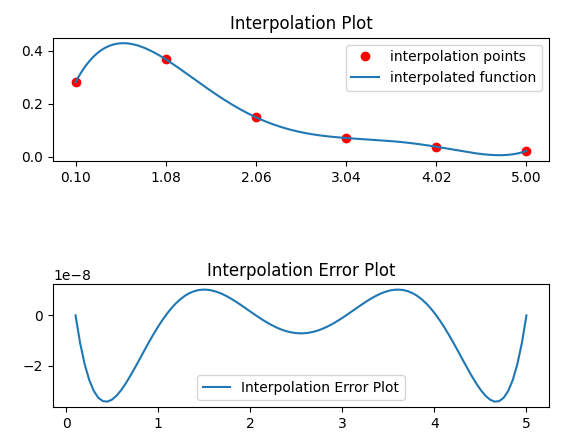
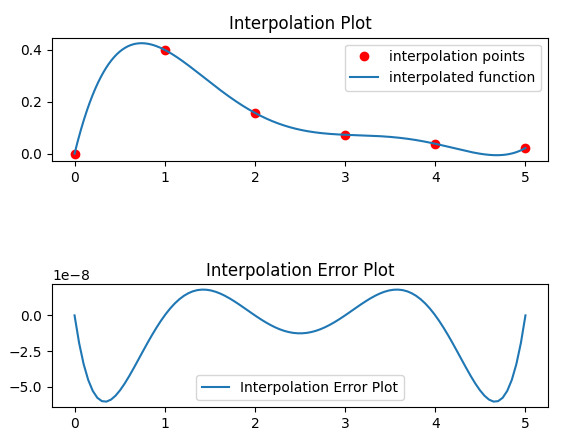
2021-04-02

diff --git a/hw5_jn2294/hw5.py b/hw5_jn2294/hw5.py
@@ -19,15 +19,21 @@ from numpy import array, zeros, diag, diagflat, dot
 
 class HW5:
     def __init__(self,mu=0,sigma=1,func=None):
+        self.x = sympy.symbols("x")
         self.mu = mu
         self.sigma= sigma
         if func is None:
             self.func = lambda x, mu=0, sigma=1: (1 / (np.sqrt(2 * np.pi) * sigma)) * (
                     np.exp((-1 / 2) * np.power((np.log(x) - mu)/sigma,2)) / x)
+
+            # Used for computing limit
+            self.func_sympy = (1 / (sympy.sqrt(2 * sympy.pi) * self.sigma)) * (
+                    sympy.exp((-1 / 2) * ((sympy.log(self.x) - self.mu)/self.sigma)**2) / self.x)
+
         else:
             self.func = func
-        self.x_points = np.linspace(0.1,5,100)
-        self.y_points = self.func(self.x_points,self.mu,self.sigma)
+        # self.x_points = np.linspace(0,5,100)
+        # self.y_points = self.func(self.x_points,self.mu,self.sigma)
 
 
     @staticmethod
@@ -62,13 +68,14 @@ class HW5:
             y = pair[1]
             x = pair[0]
             if option == "exponential":
-                b_res.append(math.log(y) - math.log(x))
+                if x == 0.0 and y == 0.0:
+                    b_res.append(0)
+                else:
+                    b_res.append(math.log(y) - math.log(x))
             elif option == "polynomial":
                 b_res.append(y)
 
         return np.array(b_res)
-
-
 
 
     # Helper function for Chebyshev Interpolation point calculation
@@ -109,6 +116,7 @@ class HW5:
                 f += coeff * (x ** order)
 
             return x, f, str(f)
+
 
     def plotInterpolation(self, data_point, func, x0):
         x_list = [pair[0] for pair in data_point]
@@ -178,7 +186,7 @@ class HW5:
 
 
     # Problem's main functions
-    def problem1(self,start=0.1,end=5,num_points=6,data_points=None):
+    def problem1(self,start=0,end=5,num_points=6,data_points=None):
 
         # 1. Determine interpolation points
 
@@ -188,7 +196,13 @@ class HW5:
             y_inter = self.func(x_inter, self.mu, self.sigma)
         else:
             x_inter = np.linspace(start, end, num_points)
-            y_inter = self.func(x_inter, self.mu, self.sigma)
+            if start == 0:
+                y_inter = list(self.func(x_inter[1:], self.mu, self.sigma))
+                y_inter.insert(sympy.limit(self.func_sympy,self.x,0),0)
+                y_inter = np.array(y_inter)
+            else:
+                y_inter = self.func(x_inter[1:], self.mu, self.sigma)
+
             data_point = [*zip(list(x_inter),list(y_inter))]
 
         # 1.1 Since we have 6 points, the 5 order polynomial is what we need for unique solution
@@ -198,7 +212,6 @@ class HW5:
         # 1.2 Construct linear system
         A = self.construct_A(data_point,order)
         b = self.construct_b(data_point)
-
 
         # 2. Solution for co-efficient for polynomial interpolation
         coeff = np.linalg.solve(A,b)
@@ -254,7 +267,7 @@ class HW5:
         plt.show()
 
 
-    def problem2(self,start=0.1,end=5,num_points=6):
+    def problem2(self,start=0,end=5,num_points=6):
         x_cheb = self.chebyshevInterpolation(start,end,num_points)
         x_cheb_vec = np.array(x_cheb)
 
@@ -266,10 +279,16 @@ class HW5:
         self.problem1(x_cheb[0],x_cheb[-1],len(x_cheb),data_points)
 
 
-    def problem3(self,start=0.1,end=5,num_points=6):
+    def problem3(self,start=0,end=5,num_points=6):
         x_inter = np.linspace(start, end, num_points)
-        y_inter = self.func(x_inter, self.mu, self.sigma)
-        data_points = [*zip(list(x_inter), list(y_inter))]
+        if start == 0:
+            y_inter = list(self.func(x_inter[1:], self.mu, self.sigma))
+            y_inter.insert(sympy.limit(self.func_sympy,self.x,0),0)
+            y_inter = np.array(y_inter)
+        else:
+            y_inter = self.func(x_inter[1:], self.mu, self.sigma)
+
+        data_points = [*zip(list(x_inter),list(y_inter))]
 
         order = 3
         x,rsme = self.polynomialModelFitting(data_points, order = order)
@@ -285,14 +304,20 @@ class HW5:
         return x,rsme
 
 
-    def problem4(self,start=0.1,end=5,num_points=6):
+    def problem4(self,start=0,end=5,num_points=6):
         x_inter = np.linspace(start, end, num_points)
-        y_inter = self.func(x_inter, self.mu, self.sigma)
-        datapoints = [*zip(list(x_inter), list(y_inter))]
+        if start == 0:
+            y_inter = list(self.func(x_inter[1:], self.mu, self.sigma))
+            y_inter.insert(sympy.limit(self.func_sympy, self.x, 0), 0)
+            y_inter = np.array(y_inter)
+        else:
+            y_inter = self.func(x_inter[1:], self.mu, self.sigma)
+
+        data_points = [*zip(list(x_inter), list(y_inter))]
 
         # 1. Construct AX=b with order = 1
-        A = self.construct_A(datapoints, 1)
-        b = self.construct_b(datapoints, "exponential")
+        A = self.construct_A(data_points, 1)
+        b = self.construct_b(data_points, "exponential")
 
         # 2 Use Normal Equation to solve the linear system
         x, rsme = self.normalEquation(A, b)
@@ -320,10 +345,10 @@ class HW5:
 if __name__ == "__main__":
     hw5 = HW5()
 
-    # hw5.problem1()
+    hw5.problem1()
 
-    # hw5.problem2()
+    hw5.problem2()
 
-    hw5.problem3()
+    # hw5.problem3()
 
-    hw5.problem4()
+    # hw5.problem4()
